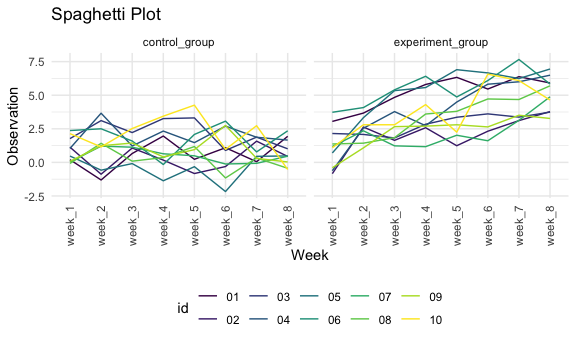
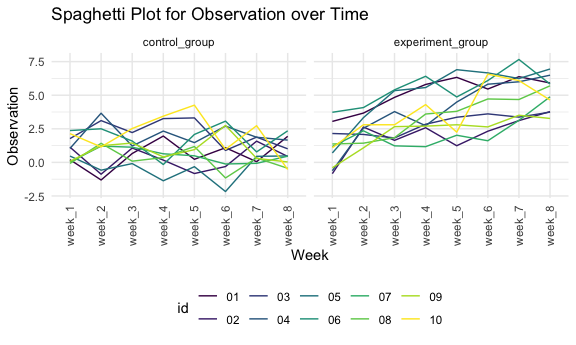
Changed plot title.

Changed region(s): [[0.2812, 0.0, 0.6562, 0.058]]

diff --git a/p8105_hw5_by2303.md b/p8105_hw5_by2303.md
@@ -392,7 +392,7 @@ A spaghetti plot showing observations on each subject over time:
       facet_grid(.~group, labeller = group_labeller) +
       theme(axis.text.x = element_text(angle = 90, vjust = 0.5, hjust=1)) + 
       labs(
-        title = "Spaghetti Plot", 
+        title = "Spaghetti Plot for Observation over Time", 
         x = "Week",
         y = "Observation"
       )
